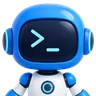
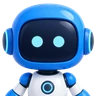
feat(chat): round glowing eyes that look around (mascot v2)
Match the updated vendor mascot: two round glowing eyes by default that
blink individually and glance left/right on their own, with options
`face: "terminal"` (the old >_ face) and `lookAround: false`, plus a
look(dir) method. The header/avatar head image gets the same eyes.
pageChange() still hops left so the mascot stays on screen.

Changed region(s): [[0.3125, 0.2812, 0.4688, 0.5], [0.4688, 0.375, 0.6875, 0.5625]]

diff --git a/client/src/components/chat/mascot.js b/client/src/components/chat/mascot.js
@@ -3,7 +3,13 @@
  * `mascot.js` drop-in: the embedded base64 PNGs now live in src/assets as
  * resized WebP files so they cache and stay out of the JS bundle.
  *
- * Idle float/breathing and blinking run on their own. Triggers return a
+ * Idle float/breathing, blinking and (with the default round eyes) looking
+ * left/right run on their own. Options:
+ *   width       CSS width (number = px); height follows the 408x612 artwork
+ *   face        "eyes" (default, two round glowing eyes) or "terminal" (>_)
+ *   lookAround  false stops the eyes wandering; look() still works
+ *
+ * look("left" | "right" | "center") points the eyes. Triggers return a
  * Promise that resolves when the move finishes:
  *   wave()       greeting (visitor arrives / chat opens)
  *   jump()       small hop (also fires when the mascot is clicked)
@@ -30,6 +36,7 @@ const CSS =
   `.rm{position:relative;width:var(--rm-w,160px);aspect-ratio:${W}/${H};pointer-events:auto;cursor:pointer;-webkit-tap-highlight-color:transparent}` +
   ".rm *{position:absolute;inset:0;width:100%;height:100%;pointer-events:none;user-select:none}" +
   ".rm canvas{display:block}" +
+  ".rm-face *{position:static;inset:auto;width:auto;height:auto}" +
   ".rm-arm{transform-origin:70.6% 56.4%}" +
   ".rm-breath{transform-origin:50% 92%}.rm-jump{transform-origin:50% 92%}" +
   ".rm-face{filter:drop-shadow(0 0 3px #4fd8ff) drop-shadow(0 0 7px rgba(79,216,255,.7))}" +
@@ -60,7 +67,7 @@ function picture(cls, src, parent) {
   return canvas;
 }
 
-export function mountMascot(host, { width = 160 } = {}) {
+export function mountMascot(host, { width = 160, face = "eyes", lookAround = true } = {}) {
   if (!document.getElementById("rm-css")) {
     const s = el("style");
     s.id = "rm-css";
@@ -83,18 +90,34 @@ export function mountMascot(host, { width = 160 } = {}) {
   const svg = el("svg", "rm-face", breath, NS);
   svg.setAttribute("viewBox", `0 0 ${W} ${H}`);
   const eyes = el("g", "rm-eyes", svg, NS);
-  const stroke = {
-    fill: "none",
-    stroke: "#8cecff",
-    "stroke-width": 11,
-    "stroke-linecap": "round",
-    "stroke-linejoin": "round",
-  };
-  for (const d of ["M152 162 L186 187 L152 212", "M205 226 H238"]) {
-    const p = el("path", "", eyes, NS);
-    p.setAttribute("d", d);
-    for (const k in stroke) p.setAttribute(k, stroke[k]);
+  const terminal = face === "terminal";
+  if (terminal) {
+    const stroke = {
+      fill: "none",
+      stroke: "#8cecff",
+      "stroke-width": 11,
+      "stroke-linecap": "round",
+      "stroke-linejoin": "round",
+    };
+    for (const d of ["M152 162 L186 187 L152 212", "M205 226 H238"]) {
+      const p = el("path", "", eyes, NS);
+      p.setAttribute("d", d);
+      for (const k in stroke) p.setAttribute(k, stroke[k]);
+    }
+  } else {
+    for (const cx of [168, 242]) {
+      const eye = el("circle", "rm-eye", eyes, NS);
+      eye.setAttribute("cx", cx);
+      eye.setAttribute("cy", 198);
+      eye.setAttribute("r", 19);
+      eye.setAttribute("fill", "#8cecff");
+      eye.style.transformBox = "fill-box";
+      eye.style.transformOrigin = "center";
+    }
   }
+  eyes.style.transition = "transform .35s cubic-bezier(.4,0,.2,1)";
+  // Round eyes blink one by one about their own centres; >_ squashes as a group.
+  const blinkTargets = terminal ? [eyes] : [...eyes.querySelectorAll(".rm-eye")];
 
   // No Web Animations API (jsdom, very old browsers) behaves like reduced motion.
   const still =
@@ -115,14 +138,37 @@ export function mountMascot(host, { width = 160 } = {}) {
   };
 
   const blinkOnce = () =>
-    eyes.animate(
-      [
-        { transform: "scaleY(1)" },
-        { transform: "scaleY(.08)", offset: 0.45 },
-        { transform: "scaleY(1)" },
-      ],
-      { duration: 220, easing: "ease-in-out" }
-    );
+    Promise.all(
+      blinkTargets.map(
+        (t) =>
+          t.animate(
+            [
+              { transform: "scaleY(1)" },
+              { transform: "scaleY(.06)", offset: 0.5 },
+              { transform: "scaleY(1)" },
+            ],
+            { duration: 380, easing: "ease-in-out" }
+          ).finished
+      )
+    ).catch(() => {});
+
+  // Eyes glance around (CSS transition on the group, in artwork units).
+  const look = (x, y = 0) => {
+    eyes.style.transform = `translate(${x}px,${y}px)`;
+  };
+  const SPOTS = [
+    [-17, 0],
+    [17, 0],
+    [0, 0],
+    [-10, -3],
+    [10, -3],
+    [0, 0],
+  ];
+  const wander = () => {
+    if (dead) return;
+    look(...SPOTS[Math.floor(Math.random() * SPOTS.length)]);
+    timers.push(setTimeout(wander, 1400 + Math.random() * 2200));
+  };
 
   if (!still) {
     const loop = { iterations: Infinity, easing: "ease-in-out" };
@@ -159,10 +205,14 @@ export function mountMascot(host, { width = 160 } = {}) {
       );
     };
     timers.push(setTimeout(blink, 1800));
+    if (!terminal && lookAround) timers.push(setTimeout(wander, 1200));
   }
 
   const mascot = {
     element: root,
+    look(dir) {
+      look(dir === "left" ? -17 : dir === "right" ? 17 : 0);
+    },
     wave() {
       if (still) return done;
       armAnim?.cancel();
@@ -248,7 +298,7 @@ export function mountMascot(host, { width = 160 } = {}) {
       if (still) return done;
       blinkOnce();
       return new Promise((resolve) => {
-        timers.push(setTimeout(() => blinkOnce().finished.then(resolve, resolve), 260));
+        timers.push(setTimeout(() => blinkOnce().then(resolve), 420));
       });
     },
     walk() {
